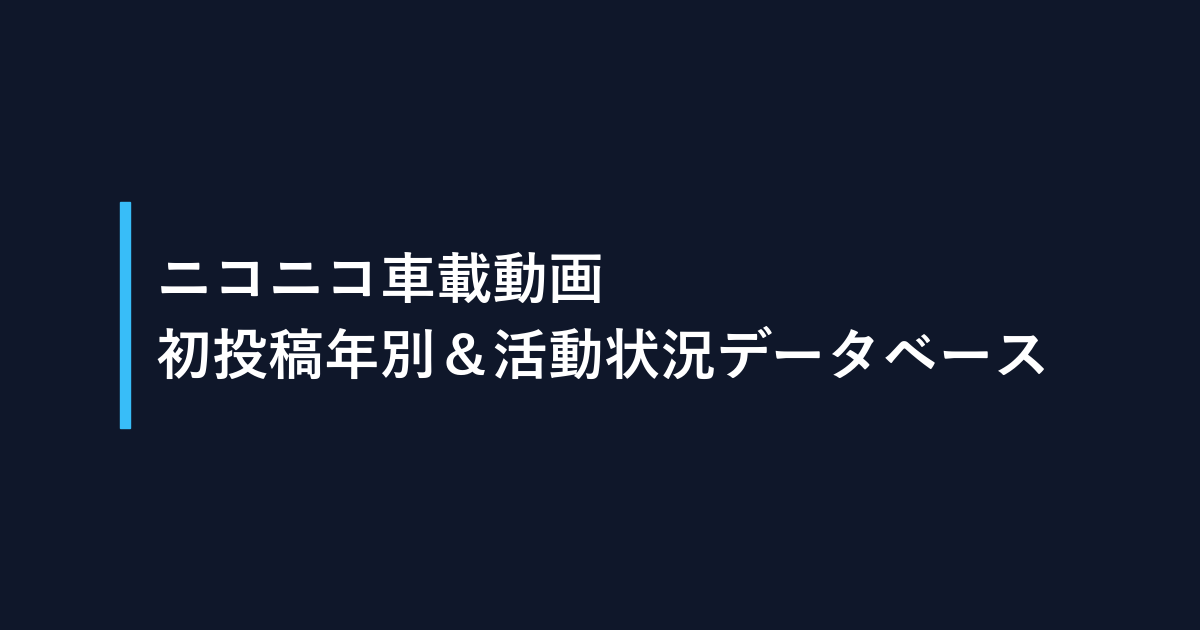
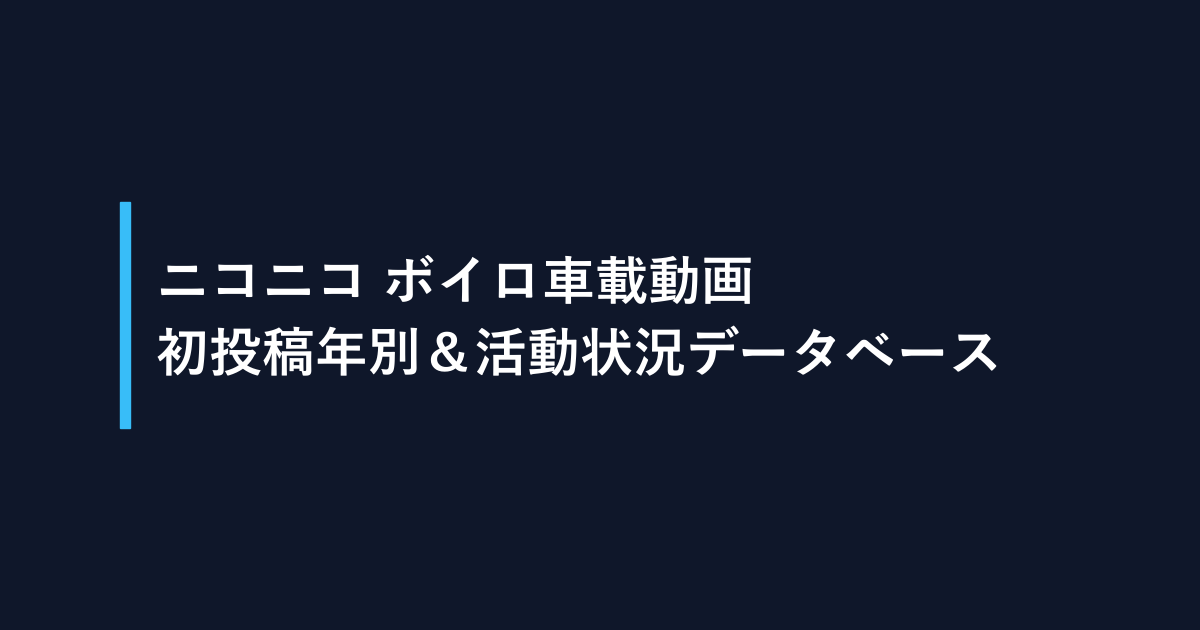
docs: タイトル・説明表記を「ニコニコ ボイロ車載動画」に変更

Changed region(s): [[0.1233, 0.5127, 0.8633, 0.6032], [0.1233, 0.3921, 0.6475, 0.4825]]

diff --git a/index.html b/index.html
@@ -3,23 +3,23 @@
 <head>
   <meta charset="UTF-8">
   <meta name="viewport" content="width=device-width, initial-scale=1.0">
-  <title>ニコニコ車載動画 初投稿年別＆活動状況データベース</title>
-  <meta name="description" content="ニコニコ動画の車載動画ジャンルにおける歴代初投稿者の総合データベース。初投稿年やキーワード、直近1年間の活動状況による絞り込み検索が可能です。">
+  <title>ニコニコ ボイロ車載動画 初投稿年別＆活動状況データベース</title>
+  <meta name="description" content="ニコニコ動画のボイロ車載動画ジャンルにおける歴代初投稿者の総合データベース。初投稿年やキーワード、直近1年間の活動状況による絞り込み検索が可能です。">
 
   <!-- Open Graph / OGP Tags -->
   <meta property="og:type" content="website">
   <meta property="og:url" content="https://estshorter.github.io/nico-onboard-viewer/">
-  <meta property="og:title" content="ニコニコ車載動画 初投稿年別＆活動状況データベース">
-  <meta property="og:description" content="ニコニコ動画の車載動画ジャンルにおける歴代初投稿者の総合データベース。初投稿年やキーワード、直近1年間の活動状況による絞り込み検索が可能です。">
+  <meta property="og:title" content="ニコニコ ボイロ車載動画 初投稿年別＆活動状況データベース">
+  <meta property="og:description" content="ニコニコ動画のボイロ車載動画ジャンルにおける歴代初投稿者の総合データベース。初投稿年やキーワード、直近1年間の活動状況による絞り込み検索が可能です。">
   <meta property="og:image" content="https://estshorter.github.io/nico-onboard-viewer/ogp.png">
-  <meta property="og:site_name" content="ニコニコ車載動画 初投稿年別＆活動状況データベース">
+  <meta property="og:site_name" content="ニコニコ ボイロ車載動画 初投稿年別＆活動状況データベース">
   <meta property="og:locale" content="ja_JP">
 
   <!-- Twitter (X) Card Tags -->
   <meta name="twitter:card" content="summary_large_image">
   <meta name="twitter:url" content="https://estshorter.github.io/nico-onboard-viewer/">
-  <meta name="twitter:title" content="ニコニコ車載動画 初投稿年別＆活動状況データベース">
-  <meta name="twitter:description" content="ニコニコ動画の車載動画ジャンルにおける歴代初投稿者の総合データベース。初投稿年やキーワード、直近1年間の活動状況による絞り込み検索が可能です。">
+  <meta name="twitter:title" content="ニコニコ ボイロ車載動画 初投稿年別＆活動状況データベース">
+  <meta name="twitter:description" content="ニコニコ動画のボイロ車載動画ジャンルにおける歴代初投稿者の総合データベース。初投稿年やキーワード、直近1年間の活動状況による絞り込み検索が可能です。">
   <meta name="twitter:image" content="https://estshorter.github.io/nico-onboard-viewer/ogp.png">
 
   <link rel="preconnect" href="https://fonts.googleapis.com">
@@ -32,9 +32,9 @@
     <!-- Header -->
     <header class="app-header">
       <div class="header-content">
-        <h1 class="header-title">ニコニコ車載動画 初投稿年別＆活動状況データベース</h1>
+        <h1 class="header-title">ニコニコ ボイロ車載動画 初投稿年別＆活動状況データベース</h1>
         <p class="header-desc">
-          ニコニコ動画の車載動画ジャンルにおける歴代初投稿者の総合データベースです。初投稿年別の絞り込みや、直近1年間（2025年8月〜2026年8月）の活動状況による絞り込み検索が可能です。<span class="snapshot-note">（データ集計基準日: 2026年8月15日）</span>
+          ニコニコ動画のボイロ車載動画ジャンルにおける歴代初投稿者の総合データベースです。初投稿年別の絞り込みや、直近1年間（2025年8月〜2026年8月）の活動状況による絞り込み検索が可能です。<span class="snapshot-note">（データ集計基準日: 2026年8月15日）</span>
         </p>
       </div>
     </header>
@@ -166,7 +166,7 @@
     <!-- Footer -->
     <footer class="app-footer">
       <div class="footer-content">
-        <p>データ出典: ニコニコ動画車載動画ジャンル集計データ（<code>nico-analyzer</code> / 集計基準日: 2026年8月15日）</p>
+        <p>データ出典: ニコニコ動画ボイロ車載動画ジャンル集計データ（<code>nico-analyzer</code> / 集計基準日: 2026年8月15日）</p>
         <p>※ 「活動中」はデータ集計基準日（2026年8月15日）から遡って1年以内に動画投稿実績が確認できたユーザーを示します。各リンクをクリックするとニコニコ動画およびユーザーマイページが別タブで開きます。</p>
         <p class="disclaimer-text">※ 本サイトは個人が作成した非公式ファンアーカイブです。株式会社ドワンゴ様とは一切関係ありません。</p>
         <p class="optout-text">※ 本データベースへの掲載取り下げ・非表示をご希望の投稿者様は、リポジトリのIssueまたは作者連絡先までお申し出ください。速やかに非表示対応いたします。</p>

diff --git a/generate_ogp.py b/generate_ogp.py
@@ -19,7 +19,7 @@ ax.add_patch(patches.Rectangle((0, 0), 1, 1, transform=ax.transAxes, color='#0f1
 ax.add_patch(patches.Rectangle((0.10, 0.32), 0.008, 0.36, transform=ax.transAxes, color='#38bdf8'))
 
 # Main Title (Left-aligned, Modern & Clean typography)
-ax.text(0.13, 0.50, 'ニコニコ車載動画\n初投稿年別＆活動状況データベース', color='#ffffff', fontsize=40, fontweight='bold',
+ax.text(0.13, 0.50, 'ニコニコ ボイロ車載動画\n初投稿年別＆活動状況データベース', color='#ffffff', fontsize=38, fontweight='bold',
         ha='left', va='center', linespacing=1.35, transform=ax.transAxes)
 
 output_path = r"C:\Users\estshorter\src\nico-onboard-viewer\ogp.png"

diff --git a/README.md b/README.md
@@ -1,6 +1,6 @@
-# ニコニコ車載動画 初投稿年別＆活動状況データベース
+# ニコニコ ボイロ車載動画 初投稿年別＆活動状況データベース
 
-ニコニコ動画の車載動画ジャンルにおける、歴代初投稿者（2007年〜現在）の初投稿・最新動画および活動状況の分析・閲覧ができるWebデータベースです。
+ニコニコ動画のボイロ車載動画ジャンルにおける、歴代初投稿者（2007年〜現在）の初投稿・最新動画および活動状況の分析・閲覧ができるWebデータベースです。
 
 👉 **Webサイト公開URL**: [https://estshorter.github.io/nico-onboard-viewer/](https://estshorter.github.io/nico-onboard-viewer/)
 
@@ -21,7 +21,7 @@
 
 ## データ集計について
 - **データ集計基準日**: **2026年8月15日**
-- **「活動中」の定義**: 集計基準日（2026年8月15日）から遡って1年以内（2025年8月15日以降）に車載動画ジャンル等で動画投稿実績が確認できたユーザーを示します。
+- **「活動中」の定義**: 集計基準日（2026年8月15日）から遡って1年以内（2025年8月15日以降）にボイロ車載動画ジャンル等で動画投稿実績が確認できたユーザーを示します。
 
 ---
 

diff --git a/AGENTS.md b/AGENTS.md
@@ -1,12 +1,12 @@
 # AGENTS.md
 
-ニコニコ車載動画 初投稿年別＆活動状況データベース (`nico-onboard-viewer`) の開発・保守向けガイドラインです。AIエージェントおよび開発者が作業する際のルールと手順をまとめています。
+ニコニコ ボイロ車載動画 初投稿年別＆活動状況データベース (`nico-onboard-viewer`) の開発・保守向けガイドラインです。AIエージェントおよび開発者が作業する際のルールと手順をまとめています。
 
 ---
 
 ## 1. プロジェクト概要
 
-- **目的**: ニコニコ動画「車載動画」ジャンルにおける歴代初投稿者の初投稿・最新投稿動画および活動状況を閲覧・検索できる静的Webデータベース。
+- **目的**: ニコニコ動画「ボイロ車載動画」ジャンルにおける歴代初投稿者の初投稿・最新投稿動画および活動状況を閲覧・検索できる静的Webデータベース。
 - **公開先**: GitHub Pages ([https://estshorter.github.io/nico-onboard-viewer/](https://estshorter.github.io/nico-onboard-viewer/))
 - **技術スタック**:
   - フロントエンド: HTML5, Vanilla CSS, Vanilla JavaScript (フレームワークなし)
